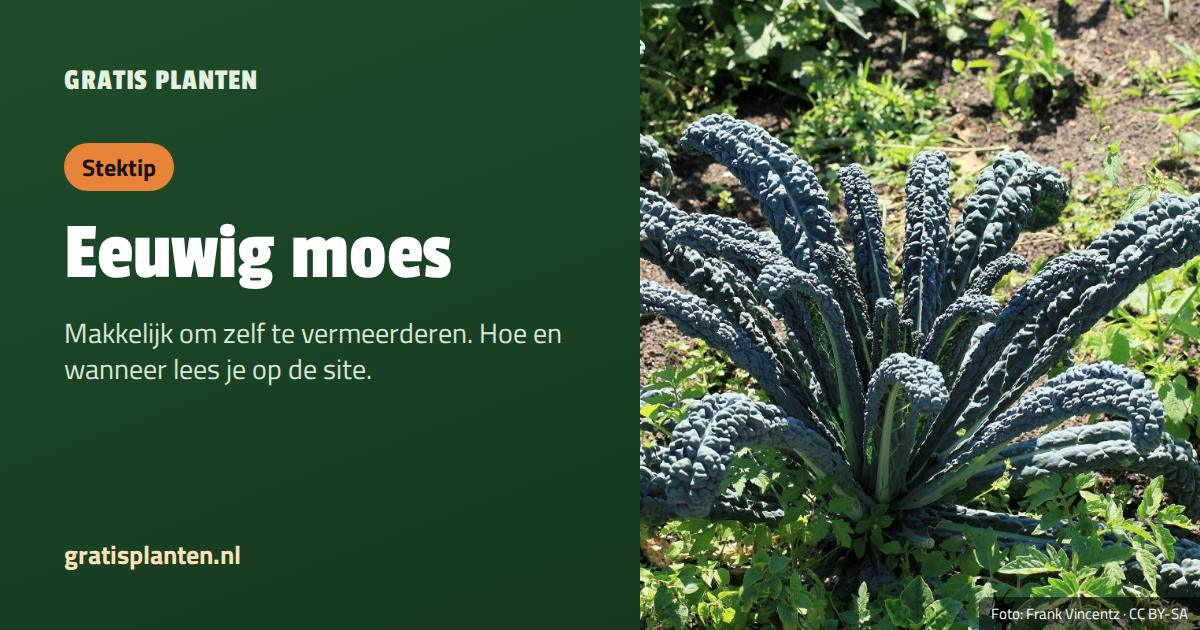
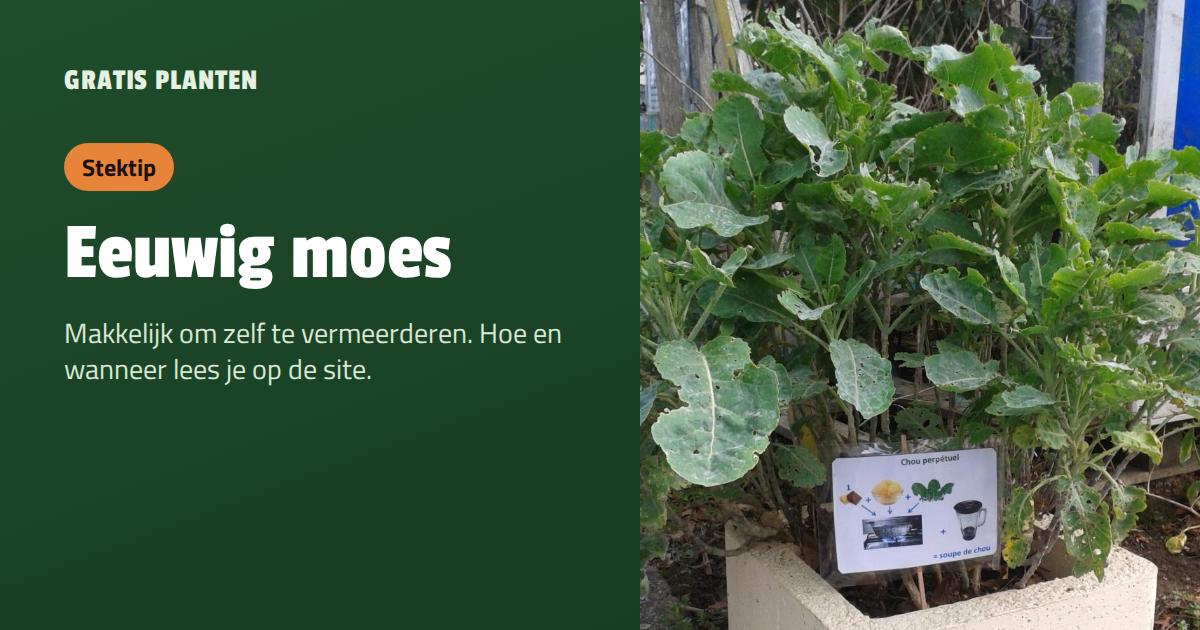
Fix eeuwig-moes foto (ramosa) en latijnse naam (0.81.15)
Vervang de verkeerde palmkool-Commonsfoto door Chou perpétuel
(FarceRéjeane, CC BY-SA 4.0), werk credits/sha256 bij, regenereer
alleen de OG-afbeelding, en zet latijn overal op var. ramosa.

diff --git a/CHANGELOG.md b/CHANGELOG.md
@@ -3,6 +3,15 @@
 Alle noemenswaardige wijzigingen in dit project. Formaat: [Keep a Changelog](https://keepachangelog.com/nl/1.1.0/),
 versies volgens [Semantic Versioning](https://semver.org/lang/nl/).
 
+## [0.81.15] - 2026-11-25
+
+### Fixed
+
+- Eeuwig moes: verkeerde Commons-foto (palmkool / Ostfriesische Palme) vervangen
+  door echte eeuwig-moesfoto (FarceRéjeane, CC BY-SA 4.0). Latijnse naam overal
+  `Brassica oleracea var. ramosa` i.p.v. `palmifolia`. OG-afbeelding opnieuw
+  gegenereerd met maker + licentie.
+
 ## [0.81.14] - 2026-11-24
 
 ### Changed
